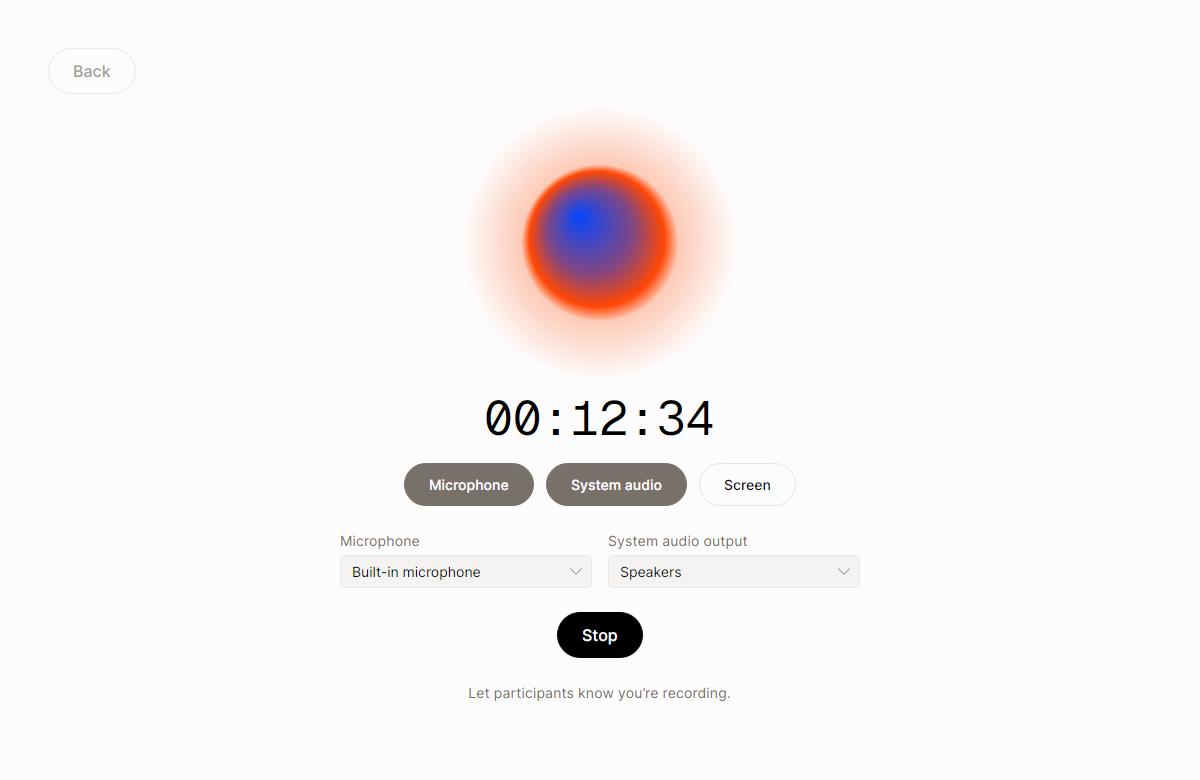
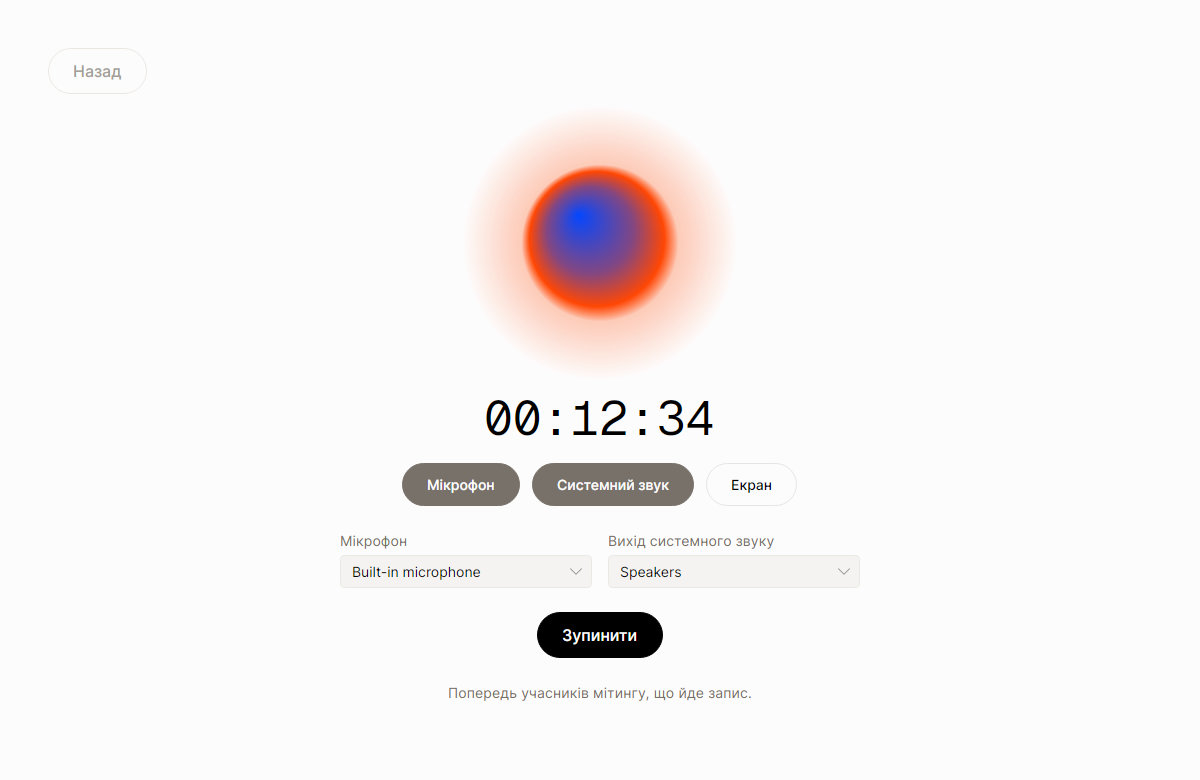
feat(core): add the global hotkeys contract; log D-035 and D-036
Plan the hotkeys and recordings-folder tasks. D-035: the screen player runs the Media Engine in
frame-server mode instead of a child HWND. D-036: the installer is a per-user Inno Setup package.

diff --git a/src/Murmur.Core/Input/IGlobalHotkeys.cs b/src/Murmur.Core/Input/IGlobalHotkeys.cs
@@ -1,0 +1,63 @@
+namespace Murmur.Core.Input;
+
+/// <summary>What a global hotkey does; each action has at most one gesture.</summary>
+public enum HotkeyAction
+{
+    /// <summary>Start a recording, or stop the running one (<c>AppSettings.RecordHotkey</c>).</summary>
+    ToggleRecording,
+
+    /// <summary>Turn screen recording on or off during a recording (<c>AppSettings.ToggleScreenHotkey</c>).</summary>
+    ToggleScreen,
+
+    /// <summary>Bring the main window to the front (<c>AppSettings.ShowAppHotkey</c>).</summary>
+    ShowApp,
+}
+
+[Flags]
+public enum HotkeyModifiers
+{
+    None = 0,
+    Ctrl = 1,
+    Alt = 2,
+    Shift = 4,
+
+    /// <summary>The Windows key (Command on macOS).</summary>
+    Meta = 8,
+}
+
+public enum HotkeyRegistration
+{
+    Registered,
+
+    /// <summary>The gesture was <c>null</c>: the action has no hotkey now.</summary>
+    Cleared,
+
+    /// <summary>Not a gesture this platform can register globally (see <c>HotkeyGesture.TryParse</c>).</summary>
+    Invalid,
+
+    /// <summary>Another application (or another action of this app) already holds the gesture.</summary>
+    Taken,
+
+    /// <summary>Global hotkeys are not available on this platform.</summary>
+    Unsupported,
+}
+
+/// <summary>
+/// System-wide hotkeys that work while the app is in the background. One implementation per OS lives in
+/// <c>Murmur.Capture.*</c>. Gestures use the settings syntax, parsed by <c>HotkeyGesture</c>. Thread-safe;
+/// <see cref="Pressed"/> is raised off the UI thread.
+/// </summary>
+public interface IGlobalHotkeys : IDisposable
+{
+    bool IsSupported { get; }
+
+    /// <summary>
+    /// Registers <paramref name="gesture"/> for <paramref name="action"/>, replacing that action's previous gesture.
+    /// When the new gesture cannot be registered the action keeps no hotkey (the previous one is released either way),
+    /// so the result always tells the truth about what works now.
+    /// </summary>
+    HotkeyRegistration Register(HotkeyAction action, string? gesture);
+
+    /// <summary>The gesture of <paramref name="action"/> was pressed. Raised once per press (key repeat is ignored).</summary>
+    event Action<HotkeyAction>? Pressed;
+}

diff --git a/docs/tasks/p4-hotkeys.md b/docs/tasks/p4-hotkeys.md
@@ -1,0 +1,68 @@
+# Task p4-hotkeys: global hotkeys (engine part)
+
+Branch `feat/global-hotkeys` (based on `phase4`). PLAN.md phase 4: "Глобальний хоткей старт/стоп: `RegisterHotKey` у
+`Murmur.Capture.Windows` за інтерфейсом у Core". This task builds the Core gesture parser and the Windows
+implementation. Wiring into the app (settings → Register, Pressed → start/stop, screen toggle, show window) is a later
+task, because the Settings screen task is editing App/Desktop right now: do not touch src/Murmur.App or
+src/Murmur.Desktop.
+
+## Contract (architect-owned, already in the branch — do not change)
+`src/Murmur.Core/Input/IGlobalHotkeys.cs`: `HotkeyAction` {ToggleRecording, ToggleScreen, ShowApp}, `HotkeyModifiers`
+flags {Ctrl, Alt, Shift, Meta}, `HotkeyRegistration` {Registered, Cleared, Invalid, Taken, Unsupported},
+`IGlobalHotkeys` {IsSupported, Register(action, gesture), Pressed}. Read the XML docs: a failed Register leaves the
+action with no hotkey; Pressed fires once per press, off the UI thread.
+
+## Spec
+1. **Core: `Murmur.Core.Input.HotkeyGesture`** (new file next to the contract): `readonly record struct
+   HotkeyGesture(HotkeyModifiers Modifiers, HotkeyKey Key)` + `public static bool TryParse(string? text, out
+   HotkeyGesture gesture)` + `ToString()` in the same syntax, and `enum HotkeyKey` for the keys a global hotkey may
+   use: A–Z, digits 0–9, F1–F24, Space, Insert, Delete, Home, End, PageUp, PageDown, Up/Down/Left/Right, NumPad0–9,
+   Pause, PrintScreen, and the OEM punctuation keys Avalonia names (OemPlus, OemMinus, OemComma, OemPeriod, ...).
+   - Syntax = what Avalonia's `KeyGesture.ToString()` produces and `KeyGesture.Parse` accepts, because the Settings
+     screen stores that string (e.g. `Ctrl+Shift+R`, `Ctrl+Alt+F9`, `Ctrl+D1` for the digit key — check Avalonia 12's
+     `KeyGesture`/`Key` source in the NuGet cache (~/.nuget/packages/avalonia/) for the exact key names and the
+     modifier names/aliases it accepts, e.g. `Control`, `Cmd`, `Win`/`Meta`; accept those aliases case-insensitively,
+     format with the canonical names).
+   - Rules: at least one of Ctrl/Alt/Meta (Shift alone or no modifier is refused: it would steal normal typing), exactly
+     one non-modifier key, no duplicates, whitespace around `+` tolerated, empty/null → false.
+   - Allocation does not matter here (settings path), AOT does: no `Enum.Parse` over reflection-heavy paths — a
+     generated/hand table or `Enum.TryParse<T>` on the generic overload is fine (it is AOT-safe); check trimming warnings.
+   - Tests: table-driven valid/invalid cases, round-trip `Parse(ToString(g)) == g` for every `HotkeyKey`, and a test in
+     `tests/Murmur.App.Tests` (App tests reference Avalonia) that for every `HotkeyKey` the Core string round-trips
+     through Avalonia `KeyGesture.Parse(...).ToString()` unchanged — so the Settings screen's strings and Core agree.
+     (Adding a test file in App.Tests is allowed; do not change App sources.)
+2. **Windows: `Murmur.Capture.Windows.Input.WindowsGlobalHotkeys : IGlobalHotkeys`**:
+   - A dedicated background thread (name it, `IsBackground = true`) that owns a message-only window
+     (`CreateWindowExW` with `HWND_MESSAGE`, own registered window class with an `[UnmanagedCallersOnly]` WndProc) and
+     runs `GetMessageW` / `DispatchMessageW`. `RegisterHotKey`/`UnregisterHotKey` must be called on that thread
+     (they bind to the calling thread's window): marshal `Register` calls to it (post a private message + wait on a
+     small completion object, or a lock-protected request slot — no Avalonia, no WinForms, no SynchronizationContext
+     dependency) and return the result synchronously.
+   - Map `HotkeyGesture` to `MOD_*` (+ `MOD_NOREPEAT` so holding the key fires once) and the virtual-key code table.
+     `RegisterHotKey` failing with `ERROR_HOTKEY_ALREADY_REGISTERED` → `Taken`; another failure → `Taken` too, with the
+     Win32 error kept for logs (property `LastError` or similar on the implementation, not in Core).
+   - Ids: one per action. Registering the same gesture for two actions → the second gets `Taken` (Windows itself
+     refuses a duplicate within the same thread? verify: it does not refuse for different ids — so check duplicates
+     yourself across actions).
+   - `WM_HOTKEY` → `Pressed(action)` raised on the hotkey thread (catch and swallow handler exceptions so a bad handler
+     cannot kill the message loop; keep them for logs the same way other Windows parts do).
+   - `Dispose`: unregister everything, destroy the window, post `WM_QUIT`, join the thread (with a timeout);
+     idempotent; Register after Dispose → `ObjectDisposedException`.
+   - The thread starts lazily on the first Register (constructing the object touches nothing native).
+   - Interop: `LibraryImport` (source-generated) like the rest of `Murmur.Capture.Windows`; no new packages.
+3. **Composition point**: expose a factory the same way playback is exposed by `WindowsCapture` (e.g.
+   `WindowsCapture.CreateGlobalHotkeys()` or a public constructor the Desktop root can call later). On non-Windows
+   builds nothing is needed now (the later App task will use a null/unsupported implementation — add
+   `Murmur.Core.Input.UnsupportedGlobalHotkeys` in Core: `IsSupported = false`, Register → `Unsupported`/`Cleared`
+   for null).
+4. **Tests (Windows-trait, run in CI)**: register a gesture → `Registered`; same gesture for a second action →
+   `Taken`; re-register replaces (the old gesture is free again: register it from a second `WindowsGlobalHotkeys`
+   instance → `Registered`); null → `Cleared`; a press simulated with `SendInput` (Ctrl+Alt+<an unlikely key>, e.g.
+   Ctrl+Alt+Shift+F24) raises `Pressed` once — mark it to skip with a clear message if the CI session has no input
+   desktop (SendInput returns 0 or the event does not come within 2 s on a non-interactive runner: skip, do not fail);
+   Dispose joins the thread and releases the gestures (a second instance can register them); 20× create/register/
+   dispose → no thread or handle growth. Linux unit tests for everything pure (mapping table, duplicate check).
+
+## Acceptance
+Linux: 0 warnings, Core + App + Capture.Windows tests green; Windows-trait tests written and UNVERIFIED until the
+architect's CI run. Commit message per Conventional Commits, no trailers.

diff --git a/docs/PLAN.md b/docs/PLAN.md
@@ -184,7 +184,7 @@ Murmur.sln
 - [x] Таймлайн MP4 дорівнює реальному часу на будь-якому вмісті (PR #7). Змінна частота кадрів: тривалість семпла = реальний проміжок до наступного. Зараз 10 хв статичного екрана програються за 22,75 с.
 - [x] 1080p60 на GPU-шляху, VBR із середнім 12 Мбіт/с замість CBR, пул семплів під 60 кадрів/с, CPU readback без GPU — не більше 30 кадрів/с (PR #8).
 - [ ] **Власник:** заміри на ПК з AOT, 10 хв з рухомим вмістом. Критерій: CPU < 8%, RAM не росте (< 1 МБ/хв після першої хвилини), ~60 кадрів/с, 0 втрат, відео = тривалість запису ± 2 с, після краша губиться ≤ 3 с відео. Абсолютну RAM і розмір файлу за годину для статичного й рухомого екрана записати довідково.
-- [ ] Плеєр екрана в «Перегляді запису»: відео синхронно зі звуком і транскриптом, клік по слову перемотує й відео (Media Foundation Media Engine, альтернатива з D-020). Хвиля 2: інтерфейс `IVideoPlayer` у Core + синхронізація з аудіо-годинником (Core) → плеєр Media Engine у дочірньому HWND (`Murmur.Capture.Windows`) → UI (`SessionView`).
+- [ ] Плеєр екрана в «Перегляді запису»: відео синхронно зі звуком і транскриптом, клік по слову перемотує й відео (Media Foundation Media Engine, альтернатива з D-020). Хвиля 2: інтерфейс `IVideoPlayer` у Core + синхронізація з аудіо-годинником (Core) → плеєр Media Engine у режимі frame-server (`Murmur.Capture.Windows`, D-035) → UI (`SessionView`).
 - [ ] Синхрон звуку й відео: з екраном звук на 0,43–0,48 с довший за запис, без екрана — ні. Причина: `WgcScreenRecorder` ставив нуль таймлайну MP4 після ініціалізації енкодера й сесії захоплення (~0,45 с), а `Recorder` бере `Offset` до виклику; харнес міряв `durationS` після старту екрана. Хвиля 1: `fix/screen-av-sync-start` (D-033).
 - [ ] Помилки екрана (вичерпаний пул, перехід на CPU readback) доходять до сесії й perf JSON: `Recorder` підписується на `IScreenRecorder.Faulted`, нефатальні — як попередження сесії. Це зміна інтерфейсу Core. Хвиля 2 (ті самі файли, що й синхрон).
 
@@ -195,7 +195,7 @@ Murmur.sln
 - [ ] Глобальний хоткей старт/стоп: `RegisterHotKey` у `Murmur.Capture.Windows` за інтерфейсом у Core. Хвиля 2.
 - [ ] Онбординг, 5 кроків за макетами `Onb1`–`Onb5`: вітання, звук (дозвіл на мікрофон, пристрої, живі рівні), моделі (Parakeet обовʼязково; Gemma E4B / 26B з рекомендацією або «пропустити AI», завантаження у фоні), налаштування, пробний запис 10 с → транскрипт. Хвиля 3 (після менеджера моделей, теми й налаштувань).
 - [ ] Папка записів з налаштувань (`AppSettings.RecordingsDirectory`) у `Murmur.Storage`. Хвиля 2.
-- [ ] Інсталятор — **потрібне рішення власника** щодо технології (MSIX / Inno Setup / Velopack); разом із пакуванням `Murmur.Transcription` поруч із застосунком (BACKLOG). Хвиля 3.
+- [ ] Інсталятор — Inno Setup, на користувача без прав адміністратора (D-036); разом із пакуванням `Murmur.Transcription` поруч із застосунком (BACKLOG). Хвиля 3.
 - [ ] **Власник:** критерій фази — 5 реальних мітингів без збоїв і втрат.
 
 Мова транскрипції в онбордингу: Parakeet TDT v3 визначає мову сам, явного вибору мови в нього немає — у MVP пункт лишається «авто» (вибір мови — коли зʼявиться другий рушій, BACKLOG).

diff --git a/docs/tasks/p4-recordings-folder.md b/docs/tasks/p4-recordings-folder.md
@@ -1,0 +1,48 @@
+# Task p4-recordings-folder: new recordings go to the folder from the settings
+
+Branch `feat/recordings-folder` (based on `phase4`). PLAN.md phase 4: "Папка записів з налаштувань
+(`AppSettings.RecordingsDirectory`) у `Murmur.Storage`". The Settings screen (another task, running now) lets the user
+pick the folder; this task makes Storage use it.
+
+## Scope
+src/Murmur.Storage/**, tests/Murmur.Storage.Tests/**, and in src/Murmur.Desktop/CompositionRoot.cs only the lines that
+build the storage and the settings store (another task edits other parts of that file — keep the diff there minimal).
+Not Core (if you need a Core change, stop and report), not App, not Capture.
+
+## Spec
+1. `SqliteStorage` takes an optional recordings-folder provider (e.g. `Func<string?>`; `null` provider or a
+   `null`/blank result = the default `<data root>/Recordings`). It is asked at each `CreateSessionAsync`: a changed
+   setting applies to the next recording without a restart. Old sessions stay where they are (no moving).
+2. The `sessions.folder` column today stores a path relative to the data root (`Recordings/<name>`). Keep that for
+   folders under the data root (no migration of existing rows); for a folder outside the data root store the absolute
+   path. `GetFiles`/`ResolveFolder` accept both. The current "points outside the data root" check must stay for relative
+   values (a `..` in a relative value is still refused).
+3. **Safety of delete**: `DeleteSessionAsync` deletes a session folder recursively today. For an absolute folder from
+   the database (outside the data root) it must never delete more than that session's own folder: refuse (leave it,
+   delete the row? — no: keep the current order "folder first, row second" and its failure semantics) unless the folder
+   name has the shape `ReserveFolder` produces (`yyyy-MM-dd_HH-mm-ss_<8 hex>[_N]`) and the path is not a drive root.
+   Document the rule in the code; test a tampered absolute value (e.g. the user's home, a drive root) is refused with an
+   error and nothing is deleted.
+4. **Unusable folder**: when the configured folder cannot be created or written (missing drive, no permission, a file
+   with that name), the recording must still start: fall back to the default folder for that session and report it —
+   add `bool UsedFallbackFolder`-style information where it fits without a Core change (e.g. a `RecordingsFolderFallback`
+   event or a last-fallback property on `SqliteStorage` the composition root can log) and say in your notes how the UI
+   could surface it later (that needs a Core change — the architect decides).
+   Check writability cheaply once per session start (create the session folder; if that throws
+   `IOException`/`UnauthorizedAccessException`, fall back).
+5. Relative configured paths are resolved against the data root? No — the Settings screen only stores absolute paths
+   from a folder picker; treat a non-rooted configured value as unusable (fallback + report).
+6. Composition root: build `StoragePaths` first (`StoragePaths.FromEnvironment()`), then `JsonSettingsStore(paths)`,
+   then `SqliteStorage(paths, () => settings.Current.RecordingsDirectory)`; keep `CreateDefault()` working for other
+   callers (tools, tests).
+7. Anything else that assumes session folders live under `<root>/Recordings` (RecoveryService uses `GetFiles` — check;
+   tools under `tools/`, scripts under `scripts/` such as `check-recording.ps1`/`verify-local.ps1` and perf harnesses
+   that look for the newest session folder): list them in your notes; fix the C# ones in your scope, report the rest.
+8. Tests: new session goes to the configured folder (absolute path in the row), changing the setting between two
+   sessions, default when null/blank, relative-under-root rows from an older database still resolve, fallback on an
+   unusable folder (a file in the way; a non-rooted value), delete of an outside session works and deletes only that
+   folder, tampered rows refused, the `..` check still holds, list/get/delete round-trip after reopening the database.
+
+## Acceptance
+Linux: 0 warnings, Storage tests green, the whole solution builds (`dotnet build Murmur.sln -c Release`).
+Conventional Commits, no trailers.

diff --git a/docs/DECISIONS.md b/docs/DECISIONS.md
@@ -38,3 +38,5 @@
 | D-032 | 4 | Мова UI (`uk` за замовчуванням, `en`) застосовується з наступного запуску; тема — одразу | Перемикання культури на льоту вимагає реактивних прив'язок до кожного рядка; для MVP вистачить перезапуску | Локалізатор з `INotifyPropertyChanged`-індексатором і миттєвою зміною мови |
 | D-033 | 4 | Таймлайн сегмента екрана: медіачас 0 файлу = момент виклику `StartSegmentAsync`, кінець = момент виклику `StopSegmentAsync`; перший кадр покриває час старту енкодера. `ScreenSegment.Offset`/`Duration` — на таймлайні сесії, `durationS` у perf JSON — теж | На ПК власника нуль MP4 ставився після ініціалізації (~0,45 с), тож відео відставало від звуку | Писати в сесію реальний час першого кадру (зміна `IScreenRecorder`) |
 | D-034 | 4 | Обидві мови UI (uk, en) вбудовані в `Murmur.App.dll` (`Strings.en.resx` з `WithCulture=false`), мова — явна статична `UiCulture.Language` (за замовчуванням `uk`), а не `CurrentUICulture` | Native AOT не завантажує satellite-збірки (перевірено: з `en/Murmur.App.resources.dll` AOT-бінарник лишався українським); мова ОС не повинна протікати в UI й тести | Satellite-збірки (працюють лише без AOT) |
+| D-035 | 4 | Плеєр екрана — Media Engine у режимі frame-server (без HWND): UI сам бере поточний кадр у свій BGRA-бітмап (`IVideoPlayer.TryCopyFrame`), аудіо лишається головним годинником (`ScreenPlaybackSync`). На справжньому GPU — D3D11 + DXGI manager, на WARP / без GPU — програмне декодування в WIC-бітмап | Дочірнє HWND малюється поверх усього (airspace): ні заокруглених кутів, ні оверлеїв, ні теми; frame-server однаковий на всіх ОС (на macOS — AVPlayerItemVideoOutput) і тестується без вікна. Копія кадру — лише розміру контрола, не 1080p | Дочірнє HWND з `SetVideoWindow` (план у PLAN.md до цього рішення) |
+| D-036 | 4 | Інсталятор — Inno Setup 6, встановлення на користувача без прав адміністратора (`%LOCALAPPDATA%\Programs\Murmur`), з деінсталятором; моделі не входять в інсталятор (їх завантажує застосунок, D-031). Автооновлення — не в MVP (BACKLOG: Velopack) | Інструмент лише збірки: нуль залежностей у рантаймі й ризиків для AOT; є на раннерах `windows-latest`; безкоштовний і для комерційного використання. MSIX без сертифіката не ставиться (sideload вимагає довіри до підпису), Velopack — нова залежність у рантаймі (SDK у `Main`) | MSIX; Velopack; WiX |
